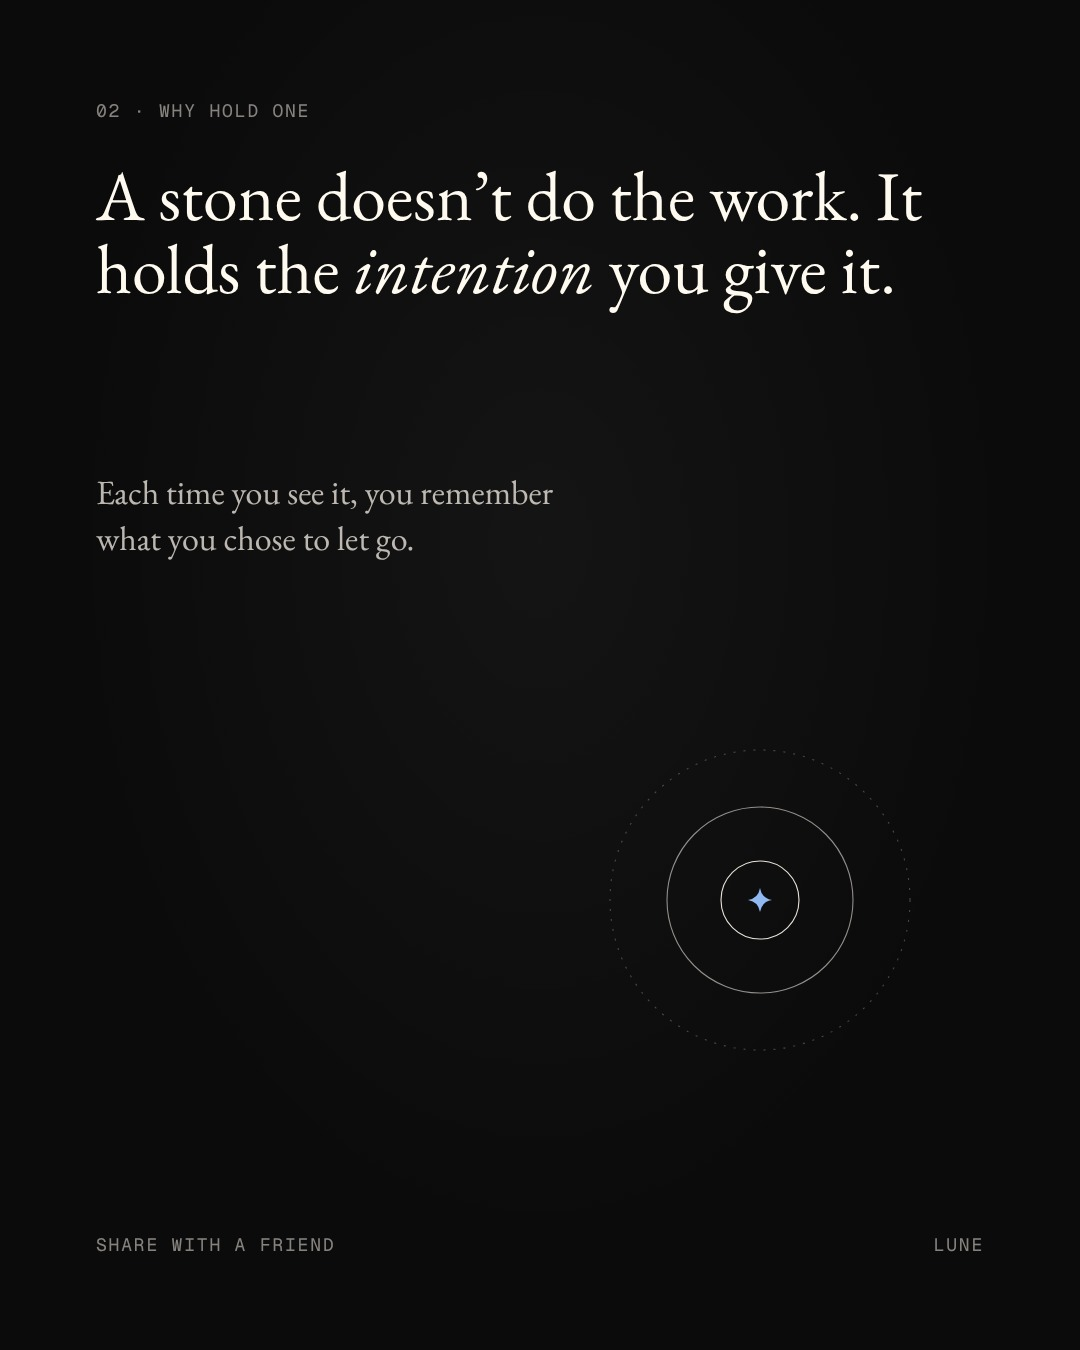
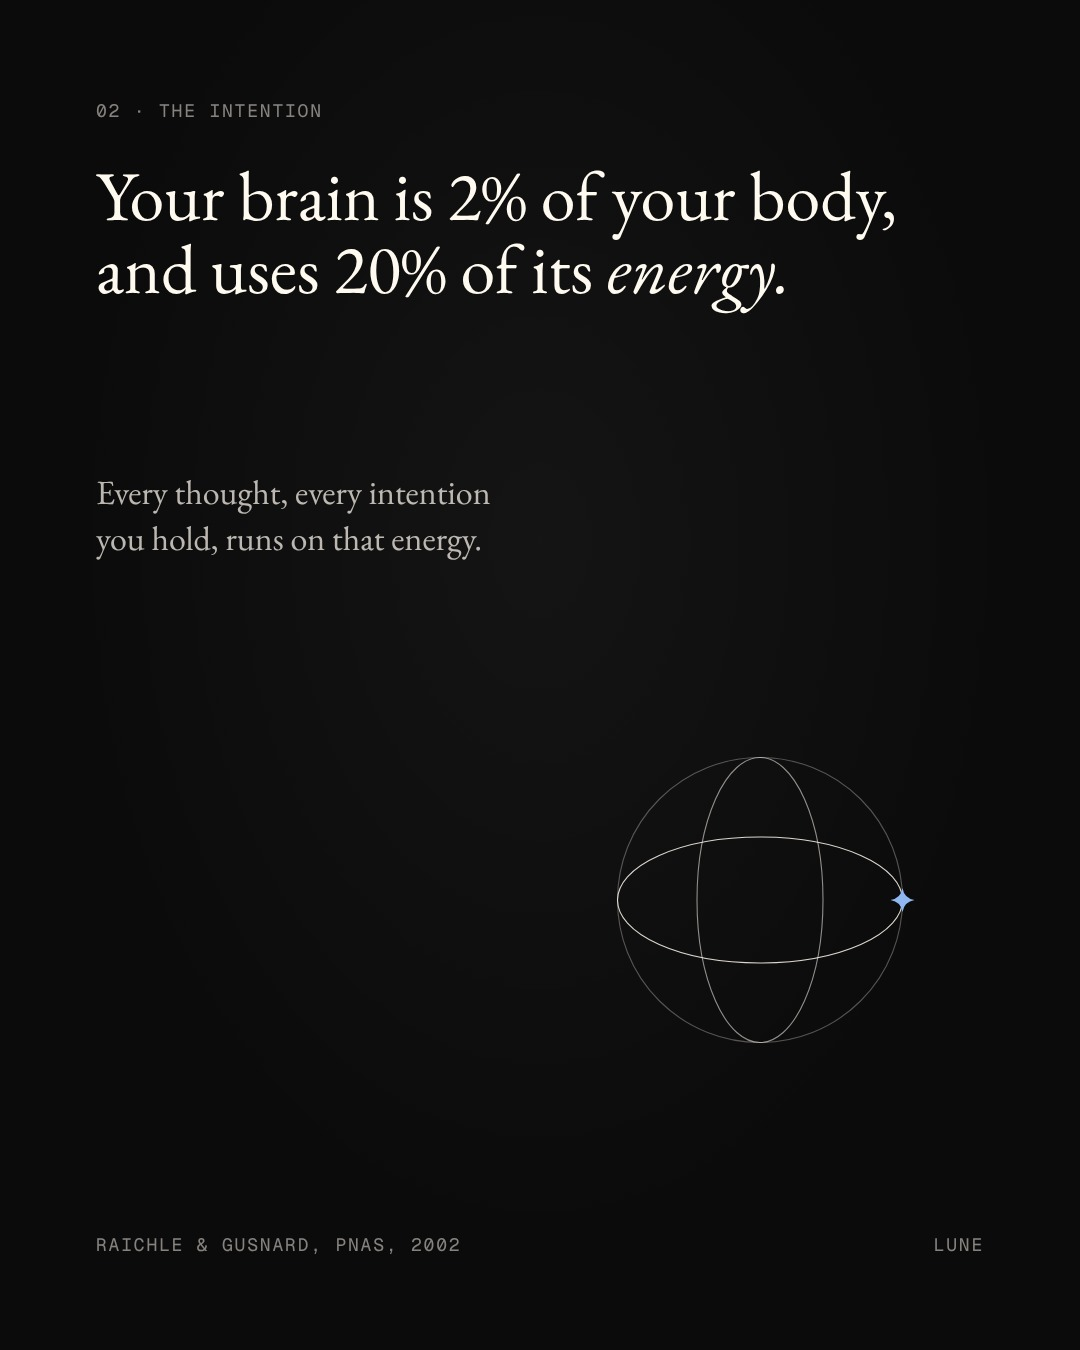
Crystals carousel: add intention and stone+intention pages (7 pages)
Claude-Session: https://claude.ai/code/session_01RcPwiV74pTBPtN1QyzzEVg

diff --git a/2026-11/w45/energia/carrossel.html b/2026-11/w45/energia/carrossel.html
@@ -30,29 +30,32 @@ const F={
  calm:(x,y,r)=>{let s='';for(let i=1;i<=5;i++)s+=E(x,y,r*0.2*i,r*0.2*i,.95-i*0.14);return s},
  clean:(x,y,r)=>E(x,y,r*0.8,r*0.8,.9)+spark(x,y-r*0.8,r*0.09),
  bounds:(x,y,r)=>E(x,y,r*0.95,r*0.95,.85)+E(x,y,r*0.78,r*0.78,.5,0,'3 6')+dot(x,y,r*0.06,.9),
+ mind:(x,y,r)=>E(x,y,r*0.95,r*0.95,.3)+E(x,y,r*0.95,r*0.42,.85,0)+E(x,y,r*0.42,r*0.95,.55,0)+spark(x+r*0.95,y,r*0.08),
+ together:(x,y,r)=>{let s='';for(let i=1;i<=4;i++){s+=E(x-r*0.55,y,r*0.22*i,r*0.22*i,.95-i*0.17)+E(x+r*0.55,y,r*0.22*i,r*0.22*i,.95-i*0.17)}return s+spark(x,y,r*0.08)},
  orbit:(x,y,r)=>E(x,y,r,r,.25,0,'2 8')+E(x,y,r*0.95,r*0.34,.85,-25)+E(x,y,r*0.95,r*0.34,.85,35)+E(x,y,r*0.95,r*0.34,.55,90)+spark(x,y,r*0.07),
- steps:(x,y,r)=>{let s='';const xs=[x-r*1.5,x,x+r*1.5];const fs=[F.hold,F.ties,F.calm];xs.forEach((cx,i)=>{s+=[(a,b,c)=>dot(a,b,c*0.1)+E(a,b,c*0.5,c*0.5,.8),(a,b,c)=>E(a,b,c*0.5,c*0.5,.8)+E(a,b,c*0.32,c*0.5,.5),(a,b,c)=>E(a,b,c*0.5,c*0.5,.5)+E(a,b,c*0.5,c*0.5,.9,0,'2 6')][i](cx,y,r*0.9)});return s},
+ steps:(x,y,r)=>{let s='';const xs=[x-r*2,x,x+r*2];const fs=[F.hold,F.ties,F.calm];xs.forEach((cx,i)=>{s+=[(a,b,c)=>dot(a,b,c*0.1)+E(a,b,c*0.5,c*0.5,.8),(a,b,c)=>E(a,b,c*0.5,c*0.5,.8)+E(a,b,c*0.32,c*0.5,.5),(a,b,c)=>E(a,b,c*0.5,c*0.5,.5)+E(a,b,c*0.5,c*0.5,.9,0,'2 6')][i](cx,y,r*0.9)});return s},
 };
 // ---------- story (same in every direction) ----------
 const S=[
- {label:'Waning moon · 3–8 Nov', title:'Everything<br>is <i>energy.</i>', sub:'Even a stone.', form:'vibration', note:'5 crystals for letting go', end:'Swipe →', cover:1},
- {label:'01 · A stone is alive', title:'Press a quartz crystal and it answers with a tiny <i>electric charge.</i>', sub:'It’s called piezoelectricity. It’s how quartz keeps time in your watch, vibrating 32,768 times a second.', form:'wave', end:'Curie & Curie, 1880', marks:['still','pressed']},
- {label:'02 · Why hold one', title:'A stone doesn’t do the work. It holds the <i>intention</i> you give it.', sub:'Each time you see it, you remember what you chose to let go.', form:'hold', end:'Share with a friend'},
- {label:'03 · Five for the waning moon', title:'What each one is <i>for.</i>', grid:[['grounding','Smoky quartz','for grounding'],['ties','Obsidian','for old ties'],['calm','Amethyst','for a calm mind'],['clean','Selenite','for a clean slate'],['bounds','Black tourmaline','for boundaries']], end:'Share with a friend'},
- {label:'04 · How to hold it', title:'Hold it. Name what you release. <i>Breathe out.</i>', sub:'Then let it rest on your altar until the new moon on 9 November.', form:'steps', marks3:['hold','name','breathe out'], end:'Share with a friend'},
- {label:'05 · Choose one', title:'Which one is <i>calling you?</i>', sub:'Trust the first stone your eye went to. Save this for your altar.', form:'orbit', end:'More moon rituals · lunerituals.app'},
+ {label:'Waning moon · 3–8 Nov', title:'Everything<br>is <i>energy.</i>', sub:'Even a stone. Even your intention.', form:'vibration', note:'5 crystals for letting go', end:'Swipe →', cover:1},
+ {label:'01 · The stone', title:'Press a quartz crystal and it answers with a tiny <i>electric charge.</i>', sub:'It’s called piezoelectricity. It’s how quartz keeps time in your watch, vibrating 32,768 times a second.', form:'wave', end:'Curie & Curie, 1880', marks:['still','pressed']},
+ {label:'02 · The intention', title:'Your brain is 2% of your body, and uses 20% of its <i>energy.</i>', sub:'Every thought, every intention you hold, runs on that energy.', form:'mind', end:'Raichle & Gusnard, PNAS, 2002'},
+ {label:'03 · Together', title:'Press the stone as you name your intention. It becomes a <i>cue</i> your mind returns to.', sub:'In 94 studies, people who tied a clear intention to a cue were far more likely to follow through.', form:'together', marks:['stone','intention'], end:'Gollwitzer & Sheeran, 2006'},
+ {label:'04 · Five for the waning moon', title:'What each one is <i>for.</i>', grid:[['grounding','Smoky quartz','for grounding'],['ties','Obsidian','for old ties'],['calm','Amethyst','for a calm mind'],['clean','Selenite','for a clean slate'],['bounds','Black tourmaline','for boundaries']], end:'Share with a friend'},
+ {label:'05 · How to hold it', title:'Hold it. Name what you release. <i>Breathe out.</i>', sub:'Then let it rest on your altar until the new moon on 9 November.', form:'steps', marks3:['hold','name','breathe out'], end:'Share with a friend'},
+ {label:'06 · Choose one', title:'Which one is <i>calling you?</i>', sub:'Trust the first stone your eye went to. Save this for your altar.', form:'orbit', end:'More moon rituals · lunerituals.app'},
 ];
 const P=S[PG-1]; let svg='', html='';
 const div=(st,cls,txt)=>html+=`<div class="a ${cls}" style="${st}">${txt}</div>`;
-function marks(x0,x1,y){ if(P.marks){svg+=T(x0,y,P.marks[0].toUpperCase(),{a:'start',s:18})+T(x1,y,P.marks[1].toUpperCase(),{a:'end',s:18})} }
+function marks(x0,x1,y){ if(P.form==='together'){return} if(P.marks){svg+=T(x0,y,P.marks[0].toUpperCase(),{a:'start',s:18})+T(x1,y,P.marks[1].toUpperCase(),{a:'end',s:18})} }
 function grid(cx,cy,w,h){ // 3 + 2 layout, labels below each form with clear gap
  const g=P.grid, r=Math.min(w/3,h/2)*0.27, rows=[[0,1,2],[3,4]];
  rows.forEach((row,ri)=>{const y=cy-h/4+ri*h/2-20; row.forEach((k,ci)=>{const n=row.length;const x=cx+(ci-(n-1)/2)*(w/3);
    svg+=F[g[k][0]](x,y,r); svg+=T(x,y+r+50,g[k][1].toUpperCase(),{op:.6,s:18})+T(x,y+r+92,g[k][2],{f:'EB',s:34,i:1,op:.9});})});
 }
-function steps(cx,y,r){ svg+=F.steps(cx,y,r); P.marks3.forEach((m,i)=>svg+=T(cx+(i-1)*r*1.5,y+r*0.9*0.5+52,`0${i+1} · ${m.toUpperCase()}`,{s:18}))}
+function steps(cx,y,r){ svg+=F.steps(cx,y,r); P.marks3.forEach((m,i)=>svg+=T(cx+(i-1)*r*2,y+r*0.9*0.5+52,`0${i+1} · ${m.toUpperCase()}`,{s:18}))}
 function art(x,y,r,box){ if(P.grid) return grid(box.cx,box.cy,box.w,box.h); if(P.form==='steps') return steps(x,y,r);
-  svg+=F[P.form](x,y,r); if(P.form==='wave') marks(x-r*2.2,x+r*2.2,y+r*0.32+70); }
+  svg+=F[P.form](x,y,r); if(P.form==='wave') marks(x-r*2.2,x+r*2.2,y+r*0.32+70); if(P.form==='together') svg+=T(x-r*0.55,y+r*0.88+56,'STONE',{s:18})+T(x+r*0.55,y+r*0.88+56,'INTENTION',{s:18}); }
 // ---------- three layout logics ----------
 if(DIR==='A'){ // EMBLEM: everything centred; form above, words below
  div(`top:${M}px;left:0;right:0;text-align:center`,'gm d',P.label);
